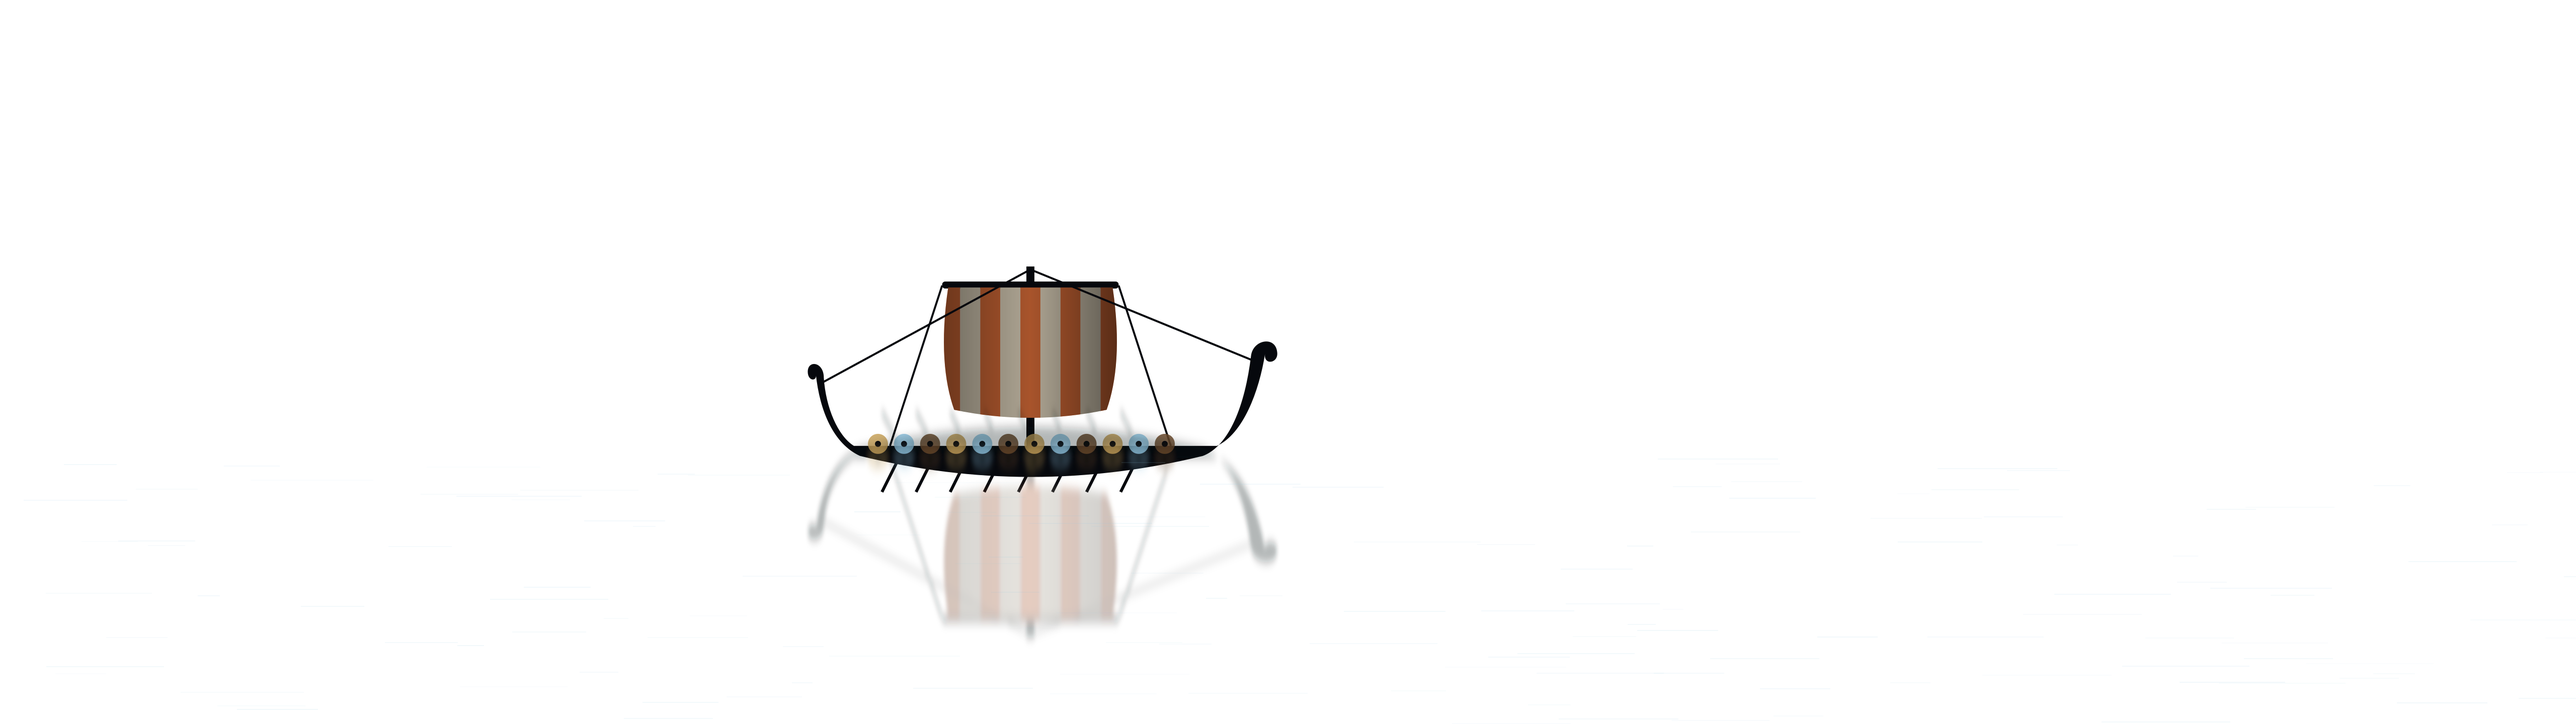
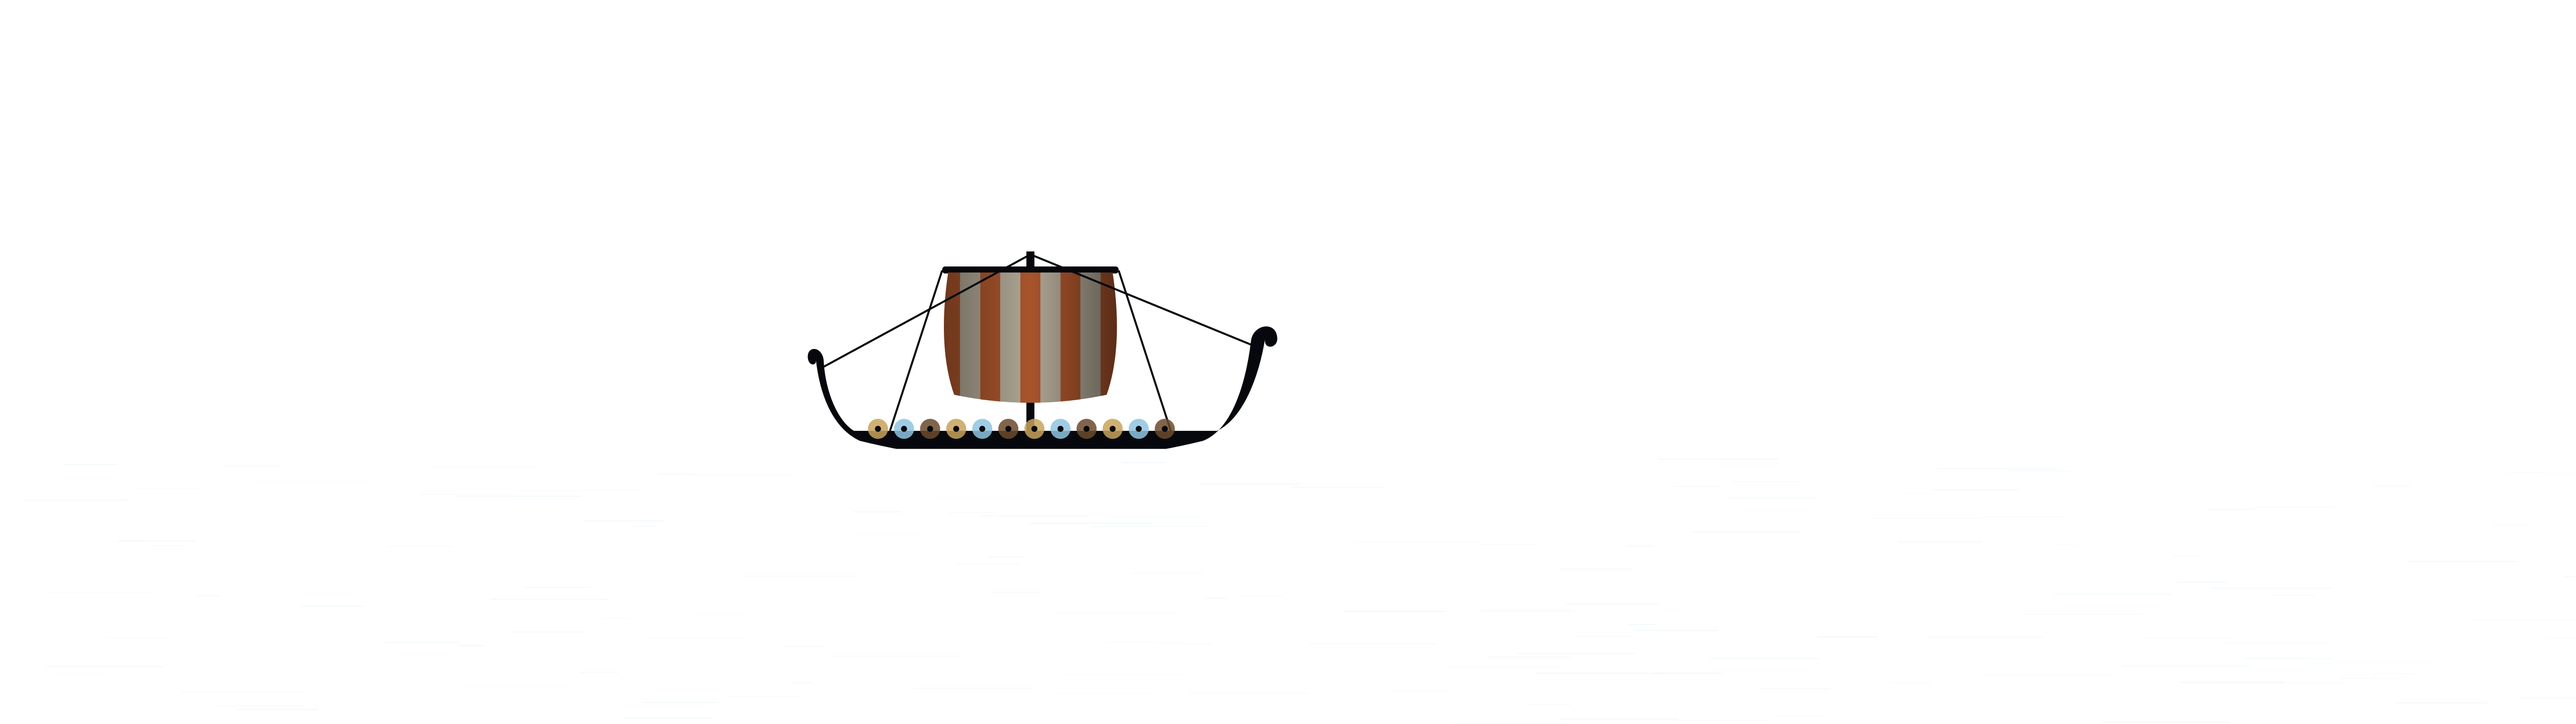
Living fjord: the longship sits on the water; one set of oars that rows
- art.py: ship_on_water(afloat=True) sets the hull into the water at the horizon (part of
  it under, hidden) and mirrors the reflection about that waterline; fjord_layers(live=True)
  leaves the oars and reflection to the scene. Defaults unchanged (phone and laptop art)
- scene.js: ship geometry from one SHIP line (win_art.py checks it against the art); the
  reflection is drawn live about the ship's own waterline and moves with it when it sails;
  a single set of near-side oars from the ports into the water, rowing or resting
- Windows' still Fjord and lock screen use the afloat ship; synced to Yggdrasil OS

Claude-Session: https://claude.ai/code/session_01FFr54Ss8nS4vU8npN7qjd3

Changed region(s): [[0.3125, 0.3438, 0.5, 0.875], [0.4688, 0.6562, 0.5, 0.7812]]

diff --git a/files/system/usr/share/plasma/wallpapers/org.yggdrasil.livingfjord/contents/web/scene.js b/files/system/usr/share/plasma/wallpapers/org.yggdrasil.livingfjord/contents/web/scene.js
@@ -28,6 +28,7 @@ try { snowAt = +(localStorage.getItem("snowAt") || 0); } catch (e) { }
 let land = null, ship = null;
 let landTint = null, shipTint = null, tintKey = "";
 let fg = null, refl = null;           // cached: tinted land+ship, and the mountains' reflection
+let shipRefl = null;                  // cached: the longship mirrored about its own waterline
 let ray = null, puff = null;
 let timer = 0, lastT = 0, flashAt = 0, nextFlash = 0;
 let W = 0, H = 0;
@@ -313,6 +314,7 @@ function draw(uptime) {
   if (key !== tintKey && land && ship) {
     landTint = tinted(land, landTint, l * (1 + 0.15 * p.glow), l, l * (1 - 0.1 * p.glow));
     shipTint = tinted(ship, shipTint, sl, sl, sl);
+    shipRefl = mirrorShip(shipTint, shipRefl);
     fg = landTint;      // the longship is drawn on its own now: it can sail off
     refl = refl || document.createElement("canvas"); refl.width = ART_W; refl.height = ART_H;
     const r = refl.getContext("2d"); r.clearRect(0, 0, ART_W, ART_H);
@@ -376,8 +378,11 @@ function draw(uptime) {
       g.addColorStop(0, rgba(hex(0xECD08F), 0.32 * sun * fade)); g.addColorStop(1, rgba(hex(0xECD08F), 0));
       ctx.fillStyle = g; ctx.beginPath(); ctx.arc(cx, cy, rr, 0, 6.283); ctx.fill();
     }
-    if (rowing) drawOars(t, fade, p.dark);
+    if (shipRefl) {   // its reflection, below its own waterline
+      ctx.globalAlpha = 0.30 * fade; ctx.drawImage(shipRefl, SHIP_BOX[0], SHIP.wl); ctx.globalAlpha = 1;
+    }
     ctx.globalAlpha = fade; ctx.drawImage(shipTint, 0, 0); ctx.globalAlpha = 1;
+    drawOars(t, fade, p.dark, rowing);   // the near side's oars, in front of the hull
     if (sun > 0.02 && sailMask) {
       ctx.globalCompositeOperation = "lighter"; ctx.globalAlpha = 0.45 * sun * fade;
       ctx.drawImage(sailMask, sx0, sy0); ctx.globalCompositeOperation = "source-over"; ctx.globalAlpha = 1;
@@ -525,8 +530,17 @@ async function start() {
 // The shelf on the left-hand mountains, in the art's coordinates (5120 x 1440).
 const SHELF_Y = 420, SHELF_L0 = 1330, SHELF_L1 = 1388, SHELF_R1 = 1730, SHELF_R0 = 1780;
 const HALL_L = 1420, HALL_R = 1720;
-// The longship layer: the waterline pivot, the sail, the hull's oar line, the masthead.
-const SHIP_PIVOT = [2070, 893], SAIL = [1700, 560, 2240, 840], MAST_TOP = [2040, 530];
+// The longship layer, afloat (win_art.py: art.fjord_layers(afloat=True, live=True)). Ship units are
+// art.py's longship() coordinates: x 200 is midships, y 0 the gunwale, and the hull meets the water
+// at y = SHIP.draft. win_art.py checks these numbers against its own, so keep the line as it is.
+const SHIP = { x: 2048, wl: 892.8, s: 1.993333, draft: 12 };
+const shipPt = (u, v) => [SHIP.x + (u - 200) * SHIP.s, SHIP.wl + (v - SHIP.draft) * SHIP.s];
+const SHIP_PIVOT = shipPt(212, SHIP.draft);                           // centre of the waterline
+const SAIL = [...shipPt(100, -172), ...shipPt(300, -26)];             // sail cloth box
+const MAST_TOP = shipPt(200, -185);
+const SHIP_BOX = [...shipPt(-30, -192), ...shipPt(452, SHIP.draft)];  // everything above the water
+const OAR_PORTS = Array.from({ length: 9 }, (_, i) => shipPt(70 + i * 34, 2));
+const OAR_LEN = 40.2 * SHIP.s, OAR_REST = Math.atan2(36, -18);       // the still art's oar angle
 const SOLAR_FULL_W = 7000;
 const NAME = "Jason";
 
@@ -874,15 +888,41 @@ function perchedRaven(x, y, L, bob, stick) {
 }
 
 /** Oars out of the hull, sweeping aft through the water and lifting back (in art coordinates). */
-function drawOars(t, fade, dark) {
-  ctx.strokeStyle = rgba(mix(hex(0x5A4630), hex(0x1C150F), dark), fade); ctx.lineCap = "round";
-  const phase = t * 0.0026;
-  for (let i = 0; i < 9; i++) {
-    const px = 1720 + i * 80, py = 862;
-    const a = Math.PI / 2 + 0.42 * Math.sin(phase), len = 125 + 18 * Math.cos(phase);
-    const ex = px + Math.cos(a) * len, ey = py + Math.sin(a) * len;
-    ctx.lineWidth = 3.4; ctx.beginPath(); ctx.moveTo(px, py); ctx.lineTo(ex, ey); ctx.stroke();
-    ctx.lineWidth = 8; ctx.beginPath(); ctx.moveTo(px + Math.cos(a) * len * 0.82, py + Math.sin(a) * len * 0.82); ctx.lineTo(ex, ey); ctx.stroke();
+/** The longship's reflection: the part above the water, flipped about the waterline and softened. */
+function mirrorShip(img, prev) {
+  const [x0, y0, x1, y1] = SHIP_BOX, w = Math.ceil(x1 - x0), h = Math.ceil(y1 - y0);
+  const c = prev || document.createElement("canvas"); c.width = w; c.height = h;
+  const g = c.getContext("2d"); g.clearRect(0, 0, w, h);
+  g.filter = "blur(3px)";
+  g.translate(0, h); g.scale(1, -1);
+  g.drawImage(img, x0, y0, w, h, 0, 0, w, h);
+  return c;
+}
+
+/**
+ * The oars on the near side, from the ports below the shields down to the water. Seen from here an
+ * oar reaching toward you meets the water below the hull's own waterline, so only the blade goes
+ * under. While rowing they sweep back with the blade in, then lift and swing forward again;
+ * otherwise they rest with the blades in the water.
+ */
+function drawOars(t, fade, dark, rowing) {
+  const wood = mix(hex(0x6B5032), hex(0x1C150F), dark);
+  const ph = t * 0.0026;
+  const a = rowing ? OAR_REST + 0.34 * Math.sin(ph) : OAR_REST + 0.08;
+  const lift = rowing ? Math.max(0, Math.cos(ph)) : 0;     // 0 = blade in the water, 1 = clear of it
+  const len = OAR_LEN * (1 - 0.16 * lift);
+  ctx.lineCap = "round";
+  for (const [px, py] of OAR_PORTS) {
+    const ca = Math.cos(a), sa = Math.sin(a), ex = px + ca * len, ey = py + sa * len;
+    const bx = px + ca * len * 0.76, by = py + sa * len * 0.76;
+    ctx.strokeStyle = rgba(wood, fade);
+    ctx.lineWidth = 5; ctx.beginPath(); ctx.moveTo(px, py); ctx.lineTo(bx, by); ctx.stroke();
+    ctx.strokeStyle = rgba(wood, fade * (0.5 + 0.5 * lift));      // the blade, dimmer while under
+    ctx.lineWidth = 11; ctx.beginPath(); ctx.moveTo(bx, by); ctx.lineTo(ex, ey); ctx.stroke();
+    if (lift < 0.5) {                                              // a ring where it cuts the water
+      ctx.strokeStyle = rgba(hex(0xDDE6F5), 0.22 * fade * (1 - 2 * lift)); ctx.lineWidth = 1.5;
+      ctx.beginPath(); ctx.ellipse(bx, by, 11, 3, 0, 0, 6.283); ctx.stroke();
+    }
   }
 }
 

diff --git a/windows/sky/web/scene.js b/windows/sky/web/scene.js
@@ -28,6 +28,7 @@ try { snowAt = +(localStorage.getItem("snowAt") || 0); } catch (e) { }
 let land = null, ship = null;
 let landTint = null, shipTint = null, tintKey = "";
 let fg = null, refl = null;           // cached: tinted land+ship, and the mountains' reflection
+let shipRefl = null;                  // cached: the longship mirrored about its own waterline
 let ray = null, puff = null;
 let timer = 0, lastT = 0, flashAt = 0, nextFlash = 0;
 let W = 0, H = 0;
@@ -313,6 +314,7 @@ function draw(uptime) {
   if (key !== tintKey && land && ship) {
     landTint = tinted(land, landTint, l * (1 + 0.15 * p.glow), l, l * (1 - 0.1 * p.glow));
     shipTint = tinted(ship, shipTint, sl, sl, sl);
+    shipRefl = mirrorShip(shipTint, shipRefl);
     fg = landTint;      // the longship is drawn on its own now: it can sail off
     refl = refl || document.createElement("canvas"); refl.width = ART_W; refl.height = ART_H;
     const r = refl.getContext("2d"); r.clearRect(0, 0, ART_W, ART_H);
@@ -376,8 +378,11 @@ function draw(uptime) {
       g.addColorStop(0, rgba(hex(0xECD08F), 0.32 * sun * fade)); g.addColorStop(1, rgba(hex(0xECD08F), 0));
       ctx.fillStyle = g; ctx.beginPath(); ctx.arc(cx, cy, rr, 0, 6.283); ctx.fill();
     }
-    if (rowing) drawOars(t, fade, p.dark);
+    if (shipRefl) {   // its reflection, below its own waterline
+      ctx.globalAlpha = 0.30 * fade; ctx.drawImage(shipRefl, SHIP_BOX[0], SHIP.wl); ctx.globalAlpha = 1;
+    }
     ctx.globalAlpha = fade; ctx.drawImage(shipTint, 0, 0); ctx.globalAlpha = 1;
+    drawOars(t, fade, p.dark, rowing);   // the near side's oars, in front of the hull
     if (sun > 0.02 && sailMask) {
       ctx.globalCompositeOperation = "lighter"; ctx.globalAlpha = 0.45 * sun * fade;
       ctx.drawImage(sailMask, sx0, sy0); ctx.globalCompositeOperation = "source-over"; ctx.globalAlpha = 1;
@@ -525,8 +530,17 @@ async function start() {
 // The shelf on the left-hand mountains, in the art's coordinates (5120 x 1440).
 const SHELF_Y = 420, SHELF_L0 = 1330, SHELF_L1 = 1388, SHELF_R1 = 1730, SHELF_R0 = 1780;
 const HALL_L = 1420, HALL_R = 1720;
-// The longship layer: the waterline pivot, the sail, the hull's oar line, the masthead.
-const SHIP_PIVOT = [2070, 893], SAIL = [1700, 560, 2240, 840], MAST_TOP = [2040, 530];
+// The longship layer, afloat (win_art.py: art.fjord_layers(afloat=True, live=True)). Ship units are
+// art.py's longship() coordinates: x 200 is midships, y 0 the gunwale, and the hull meets the water
+// at y = SHIP.draft. win_art.py checks these numbers against its own, so keep the line as it is.
+const SHIP = { x: 2048, wl: 892.8, s: 1.993333, draft: 12 };
+const shipPt = (u, v) => [SHIP.x + (u - 200) * SHIP.s, SHIP.wl + (v - SHIP.draft) * SHIP.s];
+const SHIP_PIVOT = shipPt(212, SHIP.draft);                           // centre of the waterline
+const SAIL = [...shipPt(100, -172), ...shipPt(300, -26)];             // sail cloth box
+const MAST_TOP = shipPt(200, -185);
+const SHIP_BOX = [...shipPt(-30, -192), ...shipPt(452, SHIP.draft)];  // everything above the water
+const OAR_PORTS = Array.from({ length: 9 }, (_, i) => shipPt(70 + i * 34, 2));
+const OAR_LEN = 40.2 * SHIP.s, OAR_REST = Math.atan2(36, -18);       // the still art's oar angle
 const SOLAR_FULL_W = 7000;
 const NAME = "Jason";
 
@@ -874,15 +888,41 @@ function perchedRaven(x, y, L, bob, stick) {
 }
 
 /** Oars out of the hull, sweeping aft through the water and lifting back (in art coordinates). */
-function drawOars(t, fade, dark) {
-  ctx.strokeStyle = rgba(mix(hex(0x5A4630), hex(0x1C150F), dark), fade); ctx.lineCap = "round";
-  const phase = t * 0.0026;
-  for (let i = 0; i < 9; i++) {
-    const px = 1720 + i * 80, py = 862;
-    const a = Math.PI / 2 + 0.42 * Math.sin(phase), len = 125 + 18 * Math.cos(phase);
-    const ex = px + Math.cos(a) * len, ey = py + Math.sin(a) * len;
-    ctx.lineWidth = 3.4; ctx.beginPath(); ctx.moveTo(px, py); ctx.lineTo(ex, ey); ctx.stroke();
-    ctx.lineWidth = 8; ctx.beginPath(); ctx.moveTo(px + Math.cos(a) * len * 0.82, py + Math.sin(a) * len * 0.82); ctx.lineTo(ex, ey); ctx.stroke();
+/** The longship's reflection: the part above the water, flipped about the waterline and softened. */
+function mirrorShip(img, prev) {
+  const [x0, y0, x1, y1] = SHIP_BOX, w = Math.ceil(x1 - x0), h = Math.ceil(y1 - y0);
+  const c = prev || document.createElement("canvas"); c.width = w; c.height = h;
+  const g = c.getContext("2d"); g.clearRect(0, 0, w, h);
+  g.filter = "blur(3px)";
+  g.translate(0, h); g.scale(1, -1);
+  g.drawImage(img, x0, y0, w, h, 0, 0, w, h);
+  return c;
+}
+
+/**
+ * The oars on the near side, from the ports below the shields down to the water. Seen from here an
+ * oar reaching toward you meets the water below the hull's own waterline, so only the blade goes
+ * under. While rowing they sweep back with the blade in, then lift and swing forward again;
+ * otherwise they rest with the blades in the water.
+ */
+function drawOars(t, fade, dark, rowing) {
+  const wood = mix(hex(0x6B5032), hex(0x1C150F), dark);
+  const ph = t * 0.0026;
+  const a = rowing ? OAR_REST + 0.34 * Math.sin(ph) : OAR_REST + 0.08;
+  const lift = rowing ? Math.max(0, Math.cos(ph)) : 0;     // 0 = blade in the water, 1 = clear of it
+  const len = OAR_LEN * (1 - 0.16 * lift);
+  ctx.lineCap = "round";
+  for (const [px, py] of OAR_PORTS) {
+    const ca = Math.cos(a), sa = Math.sin(a), ex = px + ca * len, ey = py + sa * len;
+    const bx = px + ca * len * 0.76, by = py + sa * len * 0.76;
+    ctx.strokeStyle = rgba(wood, fade);
+    ctx.lineWidth = 5; ctx.beginPath(); ctx.moveTo(px, py); ctx.lineTo(bx, by); ctx.stroke();
+    ctx.strokeStyle = rgba(wood, fade * (0.5 + 0.5 * lift));      // the blade, dimmer while under
+    ctx.lineWidth = 11; ctx.beginPath(); ctx.moveTo(bx, by); ctx.lineTo(ex, ey); ctx.stroke();
+    if (lift < 0.5) {                                              // a ring where it cuts the water
+      ctx.strokeStyle = rgba(hex(0xDDE6F5), 0.22 * fade * (1 - 2 * lift)); ctx.lineWidth = 1.5;
+      ctx.beginPath(); ctx.ellipse(bx, by, 11, 3, 0, 0, 6.283); ctx.stroke();
+    }
   }
 }
 

diff --git a/tools/art.py b/tools/art.py
@@ -278,8 +278,12 @@ def aurora(rnd, w, y0, bands=4):
     return s
 
 
-def longship(x, y, s, hull="#06080d", sail_a=EMBER, sail_b=BONE, shields=(GOLD, FROST, OAK)):
-    """An original longship silhouette; (x,y)=waterline centre, s=scale."""
+SHIP_DRAFT = 12   # ship units of hull under the water when afloat (the keel curve reaches 25)
+
+
+def longship(x, y, s, hull="#06080d", sail_a=EMBER, sail_b=BONE, shields=(GOLD, FROST, OAK), oars=True):
+    """An original longship silhouette; (x,y)=waterline centre, s=scale. oars=False leaves the
+    oars off (the living wallpapers row their own)."""
     T = f'transform="translate({x},{y}) scale({s}) translate(-200,0)"'
     hullp = ("M -14,-78 C -10,-40 4,-8 30,4 Q 200,46 372,4 C 398,-6 414,-46 420,-96 "
              "C 422,-112 444,-116 446,-100 C 448,-88 432,-86 434,-98 C 428,-60 412,-18 386,-6 "
@@ -304,10 +308,42 @@ def longship(x, y, s, hull="#06080d", sail_a=EMBER, sail_b=BONE, shields=(GOLD, 
         col = shields[i % len(shields)]
         g += f'<circle cx="{sx}" cy="-8" r="10" fill="{col}" opacity="0.85"/>'
         g += f'<circle cx="{sx}" cy="-8" r="3" fill="{hull}"/>'
-    # oars
-    for ox in range(70, 340, 34):
-        g += f'<line x1="{ox}" y1="4" x2="{ox - 18}" y2="40" stroke="{hull}" stroke-width="3"/>'
+    if oars:
+        g += _oar_lines(hull)
     g += '</g>'
+    return g
+
+
+def _oar_lines(hull):
+    return "".join(f'<line x1="{ox}" y1="4" x2="{ox - 18}" y2="40" stroke="{hull}" stroke-width="3"/>'
+                   for ox in range(70, 340, 34))
+
+
+def longship_oars(x, y, s, hull="#06080d"):
+    """Just the longship's oars, placed like longship(x, y, s)."""
+    return f'<g transform="translate({x},{y}) scale({s}) translate(-200,0)">{_oar_lines(hull)}</g>'
+
+
+def ship_on_water(sx, hz, sc, afloat=False, oars=True, reflect=True, uid="w"):
+    """The longship on the fjord, plus its reflection.
+
+    afloat=False is the original placement (hull top at the horizon, reflected about it).
+    afloat=True sits the hull in the water at the horizon line: SHIP_DRAFT units of it are under
+    water (hidden), and the reflection mirrors about that same waterline."""
+    if not afloat:
+        g = longship(sx, hz + 6, sc, oars=oars)
+        if reflect:
+            g += (f'<g transform="translate(0,{2*(hz+6)}) scale(1,-1)" opacity="0.30" filter="url(#blurref)">'
+                  f'{longship(sx, hz + 6, sc, oars=oars)}</g>')
+        return g
+    y = hz - SHIP_DRAFT * sc
+    clip = f'<clipPath id="above{uid}"><rect x="0" y="-100000" width="1000000" height="{100000 + hz:.2f}"/></clipPath>'
+    g = clip + f'<g clip-path="url(#above{uid})">{longship(sx, y, sc, oars=False)}</g>'
+    if oars:
+        g += longship_oars(sx, y, sc)            # oars reach down into the water: not clipped
+    if reflect:
+        g += (f'<g transform="translate(0,{2*hz:.2f}) scale(1,-1)" opacity="0.30" filter="url(#blurref)">'
+              f'<g clip-path="url(#above{uid})">{longship(sx, y, sc, oars=False)}</g></g>')
     return g
 
 
@@ -337,7 +373,7 @@ def _fjord_defs(w, h):
     return defs
 
 
-def wallpaper_fjord(w=3840, h=2160, seed=11, ship_x=0.36, ship_scale=2.6):
+def wallpaper_fjord(w=3840, h=2160, seed=11, ship_x=0.36, ship_scale=2.6, afloat=False):
     rnd = random.Random(seed)
     hz = h * 0.62  # horizon / waterline
     defs = _fjord_defs(w, h)
@@ -366,9 +402,7 @@ def wallpaper_fjord(w=3840, h=2160, seed=11, ship_x=0.36, ship_scale=2.6):
         b += f'<rect x="{x:.0f}" y="{y:.0f}" width="{ln:.0f}" height="3" fill="{GOLD_HI}" opacity="{rnd.uniform(0.15, 0.6):.2f}"/>'
     # the ship + its reflection
     sx, sc = w * ship_x, ship_scale
-    b += longship(sx, hz + 6, sc)
-    b += (f'<g transform="translate(0,{2*(hz+6)}) scale(1,-1)" opacity="0.30" filter="url(#blurref)">'
-          f'{longship(sx, hz + 6, sc)}</g>')
+    b += ship_on_water(sx, hz, sc, afloat=afloat)
     # ripples
     for _ in range(140):
         x = rnd.uniform(0, w)
@@ -427,7 +461,7 @@ def desktop_fjord_layers(w=3840, h=2160, seed=11, ship_x=0.36, ship_scale=2.6):
             "ripples": svg(w, h, rip, defs), "ship": svg(w, h, ship, defs)}
 
 
-def fjord_layers(w=1440, h=3120, seed=11, ship_x=0.40, ship_scale=1.85):
+def fjord_layers(w=1440, h=3120, seed=11, ship_x=0.40, ship_scale=1.85, afloat=False, live=False):
     """The phone fjord split for the living wallpaper: 'land' (mountains only) and
     'ship' (longship, its reflection, ripples), both on transparent ground. Uses the
     same random sequence as wallpaper_fjord, so the mountains match it exactly."""
@@ -449,9 +483,8 @@ def fjord_layers(w=1440, h=3120, seed=11, ship_x=0.40, ship_scale=1.85):
             '<stop offset="1" stop-color="#000" stop-opacity="0.65"/></linearGradient>'
             '<filter id="blurref"><feGaussianBlur stdDeviation="3 10"/></filter>')
     sx, sc = w * ship_x, ship_scale
-    ship = longship(sx, hz + 6, sc)
-    ship += (f'<g transform="translate(0,{2*(hz+6)}) scale(1,-1)" opacity="0.30" filter="url(#blurref)">'
-             f'{longship(sx, hz + 6, sc)}</g>')
+    # live=True: the scene rows its own oars and draws the ship's reflection (both move with it)
+    ship = ship_on_water(sx, hz, sc, afloat=afloat, oars=not live, reflect=not live, uid="l")
     for _ in range(140):
         x = rnd.uniform(0, w)
         y = hz + rnd.uniform(10, h - hz) ** 1.0

diff --git a/windows/tools/win_art.py b/windows/tools/win_art.py
@@ -8,6 +8,7 @@ its sky behind.
 Writes SVGs; windows/tools/build.sh renders them to PNG/JPG.
 """
 import os
+import re
 import sys
 
 sys.path.insert(0, os.path.join(os.path.dirname(__file__), "..", "..", "tools"))
@@ -19,6 +20,18 @@ art.BAND_RUNES = [k for k in art.BAND_RUNES if k not in FORBIDDEN]
 art.NAME_RUNES = [k for k in art.NAME_RUNES if k not in FORBIDDEN]
 
 
+def check_scene(w, h, ship_x, ship_scale):
+    """The living scene places the reflection and oars from these same numbers: stop if they differ."""
+    js = open(os.path.join(os.path.dirname(__file__), "..", "sky", "web", "scene.js")).read()
+    m = re.search(r"const SHIP = \{ x: ([\d.]+), wl: ([\d.]+), s: ([\d.]+), draft: (\d+) \};", js)
+    if not m:
+        sys.exit("scene.js: no SHIP line")
+    want = (w * ship_x, h * 0.62, ship_scale, art.SHIP_DRAFT)
+    got = tuple(float(g) for g in m.groups())
+    if any(abs(a - b) > 1e-3 for a, b in zip(want, got)):
+        sys.exit(f"scene.js SHIP {got} doesn't match the art {want}: update the SHIP line")
+
+
 def main():
     out = sys.argv[1] if len(sys.argv) > 1 else "win-art"
     w = int(sys.argv[2]) if len(sys.argv) > 2 else 5120
@@ -27,12 +40,13 @@ def main():
     k = h / 2160  # the desktop art was tuned at 2160 tall
     ship_x, ship_scale = 0.40, 2.6 * k * 1.15
     files = {
-        "wall-fjord.svg": art.wallpaper_fjord(w, h, seed=11, ship_x=ship_x, ship_scale=ship_scale),
+        "wall-fjord.svg": art.wallpaper_fjord(w, h, seed=11, ship_x=ship_x, ship_scale=ship_scale, afloat=True),
         "wall-worldtree.svg": art.wallpaper_worldtree(w, h, seed=5, tree_scale=2.7 * k, ring_scale=k),
         "wall-iron.svg": art.wallpaper_iron(w, h),
         "logo.svg": art.logo(512),
     }
-    layers = art.fjord_layers(w, h, seed=11, ship_x=ship_x, ship_scale=ship_scale)
+    layers = art.fjord_layers(w, h, seed=11, ship_x=ship_x, ship_scale=ship_scale, afloat=True, live=True)
+    check_scene(w, h, ship_x, ship_scale)
     files["sky-land.svg"] = layers["land"]
     files["sky-ship.svg"] = layers["ship"]
     for n, s in files.items():
